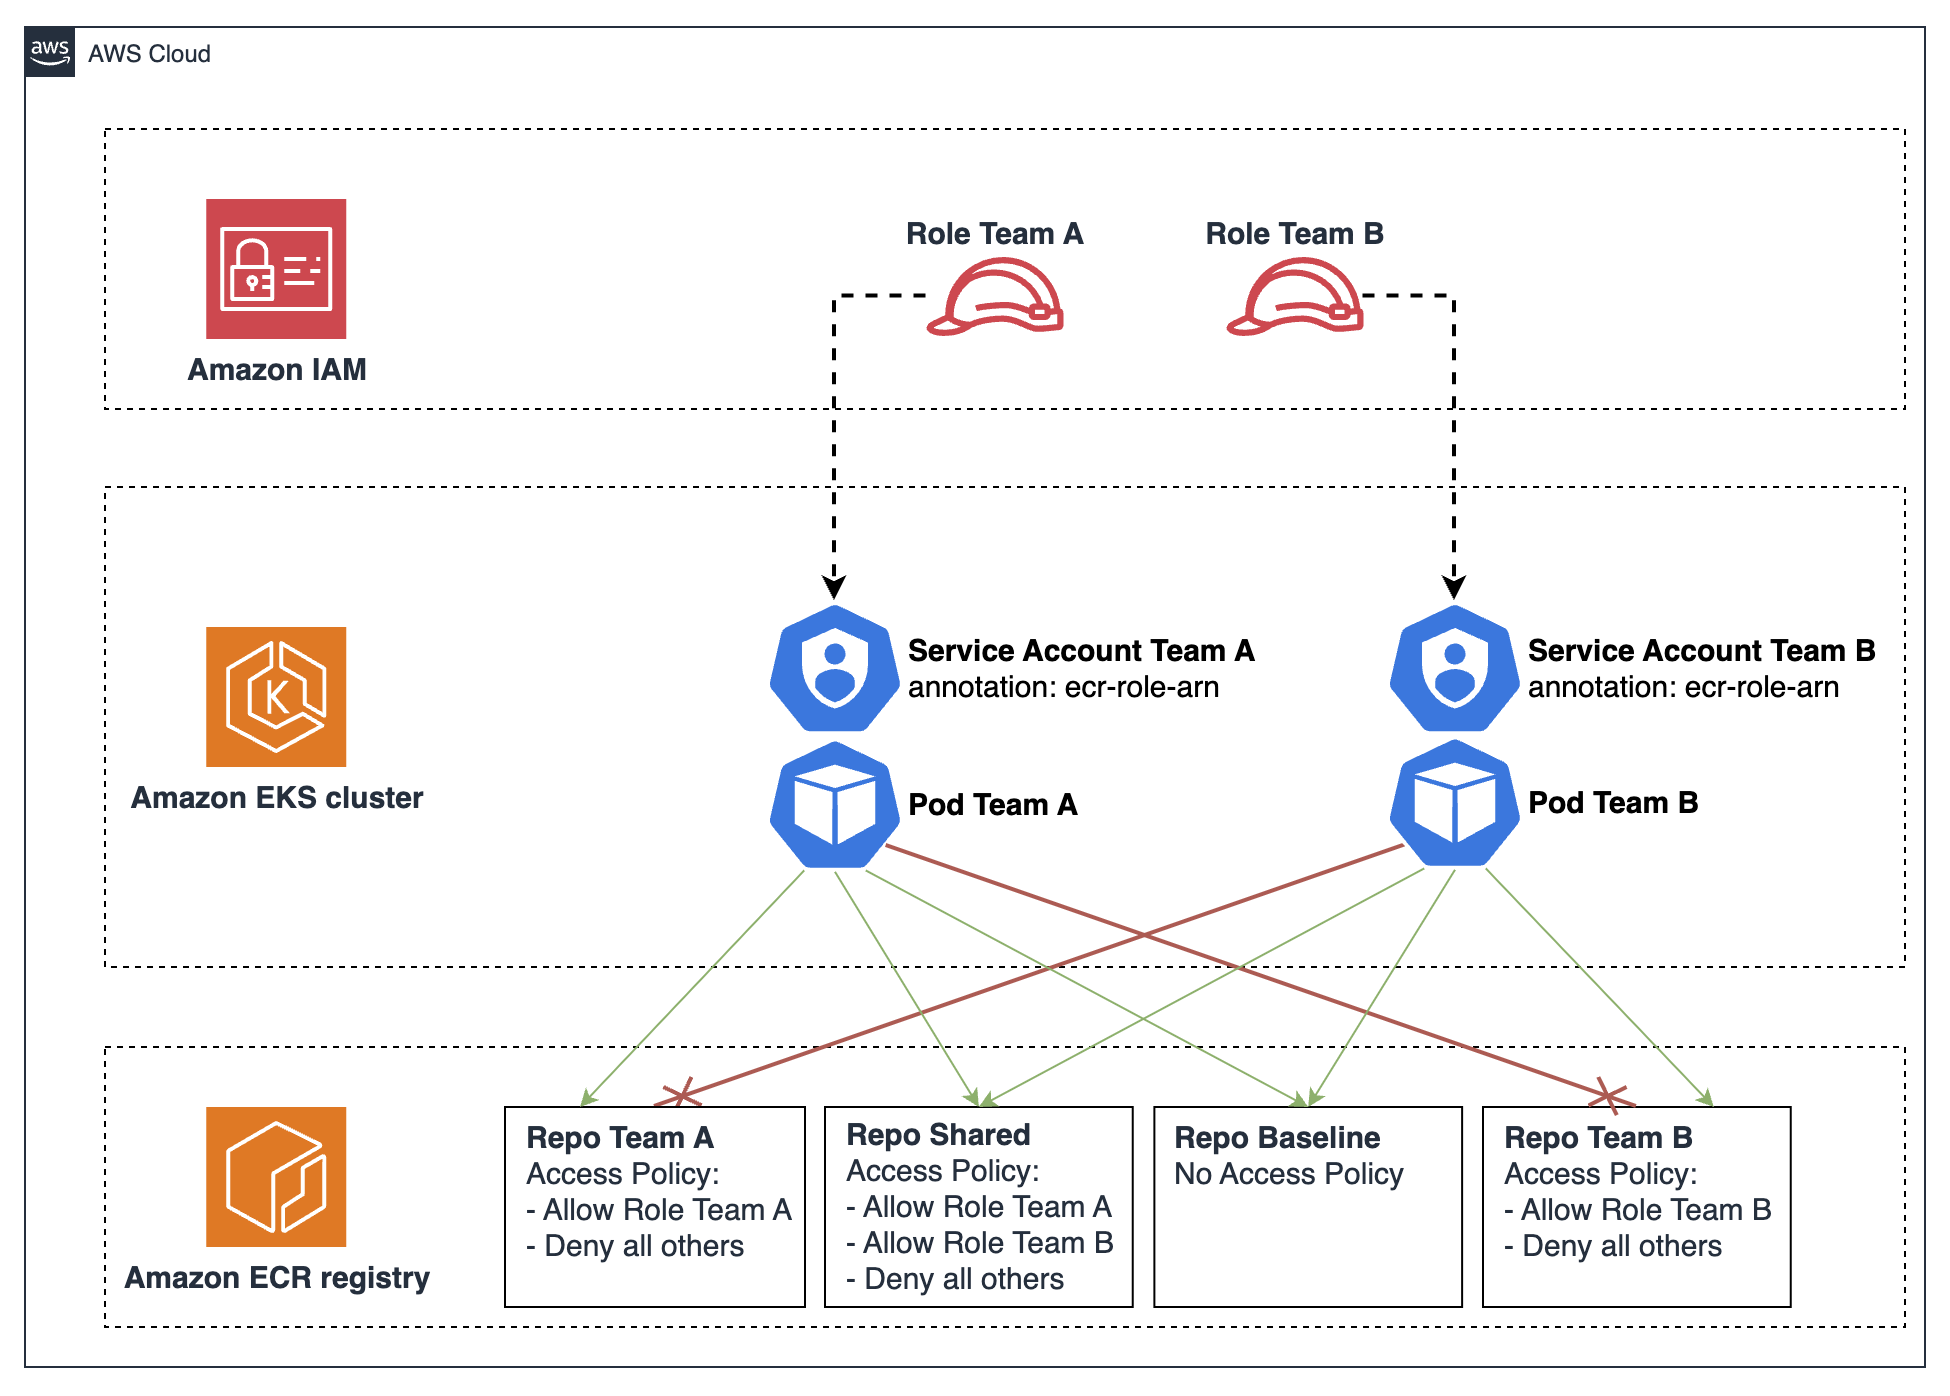
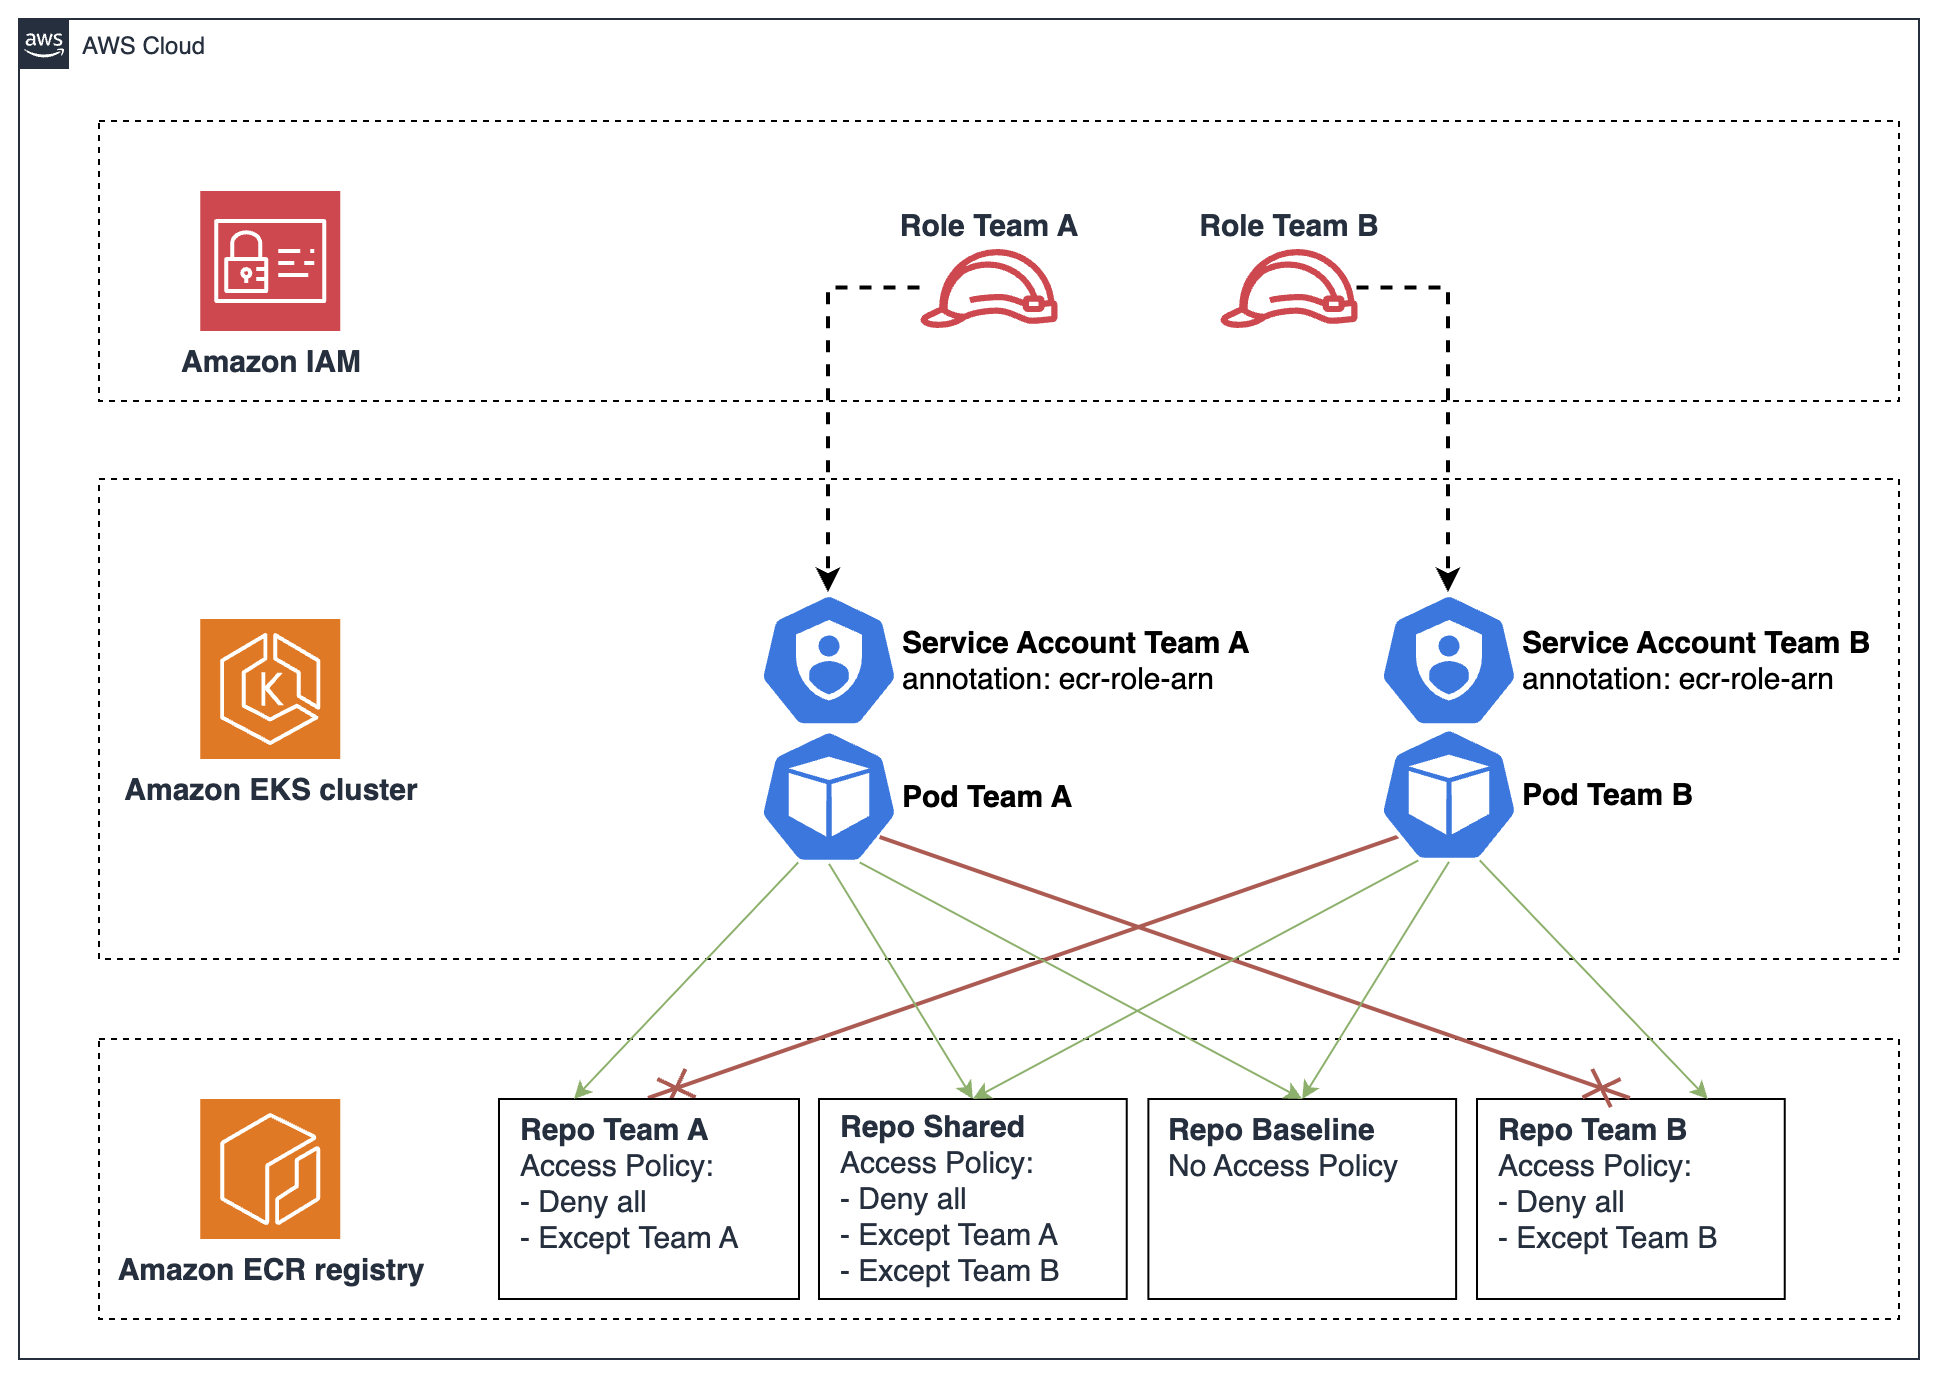
update arch diagram to deny rules

diff --git a/README.md b/README.md
@@ -87,8 +87,8 @@ The Terraform configuration creates:
 - AWS account with permissions to create VPC, EKS, ECR, IAM resources
 - [Terraform](https://developer.hashicorp.com/terraform/install) >= 1.5
 - [AWS CLI](https://docs.aws.amazon.com/cli/latest/userguide/getting-started-install.html) v2
-- `kubectl`
-- A container runtime (docker, podman, or finch) for pushing images to ECR
+- [kubectl](https://kubernetes.io/docs/tasks/tools/)
+- A container runtime ([docker](https://www.docker.com/get-started/), [podman](https://podman.io/docs/installation), or [finch](https://runfinch.com/docs/getting-started/installation/)) for pushing images to ECR
 
 > **Warning:** This demo creates billable AWS resources including a NAT gateway, Amazon EKS cluster control plane, Amazon Elastic Compute Cloud (Amazon EC2) instances, and Amazon ECR repositories. Costs will accrue while resources are running. To minimize costs, complete the demo promptly and run the cleanup steps when finished. For current pricing, see the [Amazon EKS pricing page](https://aws.amazon.com/eks/pricing/), [Amazon EC2 pricing page](https://aws.amazon.com/ec2/pricing/), and [Amazon ECR pricing page](https://aws.amazon.com/ecr/pricing/).
 
